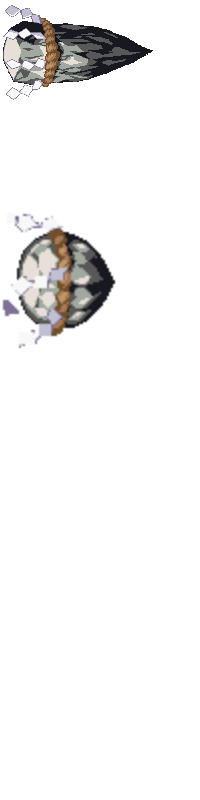
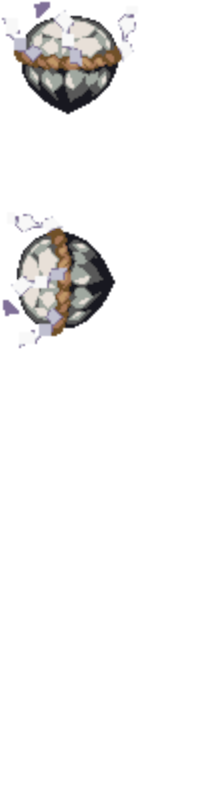
Keystone drop mostly complete

Changed region(s): [[0.0, 0.0, 0.75, 0.1562]]

diff --git a/components/TenshiController.js b/components/TenshiController.js
@@ -41,16 +41,6 @@ class TenshiController extends BossController {
             // }
             this.facePlayer();
             this.attack(15);
-            // let roll = Math.floor(Math.random() * 2);
-            // this.facePlayer();
-            // this.attack(1);
-            // if (roll == this.boss.facing) { //JUMP FORWARD
-            //     this.yVelocity = -1000;
-            //     this.xVelocity = (1 - roll * 2) * 600;
-            // } else { //JUMP BACKWARDS
-            //     this.yVelocity = -700;
-            //     this.xVelocity = (1 - roll * 2) * 600;
-            // }
         }
         if (this.attackDuration > 0 || this.timer > 0) { //DURING STATE
             switch(this.boss.state) {
@@ -149,22 +139,19 @@ class TenshiController extends BossController {
                     if (!this.effectSpawn && ((this.attackDuration < 1.5 && this.attackDuration > 1)
                         || (this.attackDuration < 0.5))) {
                         for (let i = 0; i < 6; i++) {
-                            this.game.addEntity(new Projectile(this.boss.BB.midX - 115 + 250 * i, -154, 200, 200, 
-                                73, 17, 95, 95, 1000, -90, null, "Tenshi", 1, this.game));
-                            this.game.addEntity(new Projectile(this.boss.BB.midX - 115 - 250 * i, -154, 200, 200, 
-                                73, 17, 95, 95, 1000, -90, null, "Tenshi", 1, this.game));
+                            this.game.addEntity(new Keystone(this.boss.BB.midX - 22 - 48 - 125 + 250 * i, -90, this.game));
+                            this.game.addEntity(new Keystone(this.boss.BB.midX - 22 - 48 - 125 - 250 * i, -90, this.game));
                         }
                         this.effectSpawn = true;
                     }
                     if (this.effectSpawn && this.attackDuration < 1 && this.attackDuration > 0.5) {
                         for (let i = 0; i < 6; i++) {
-                            this.game.addEntity(new Projectile(this.boss.BB.midX - 115 - 125 + 250 * i, -154, 200, 200, 
-                                73, 17, 95, 95, 1000, -90, null, "Tenshi", 1, this.game));
-                            this.game.addEntity(new Projectile(this.boss.BB.midX - 115 - 125 - 250 * i, -154, 200, 200, 
-                                73, 17, 95, 95, 1000, -90, null, "Tenshi", 1, this.game));
+                            this.game.addEntity(new Keystone(this.boss.BB.midX - 22 - 48 + 250 * i, -90, this.game));
+                            this.game.addEntity(new Keystone(this.boss.BB.midX - 22 - 48 - 250 * i, -90, this.game));
                         }
                         this.effectSpawn = false;
                     }
+                    Keystone.setSfxPlayed(false);
                     break;
                 }
             }

diff --git a/Entities/Projectile.js b/Entities/Projectile.js
@@ -23,17 +23,19 @@ class Projectile {
         this.x += this.xVelocity * this.game.clockTick;
         this.y += this.yVelocity * this.game.clockTick;
         this.updateHitbox();
-        if (this.lifespan == null) {
-            if (this.x + this.width < 0 || this.x > 1280) {
-                this.removeFromWorld = true;
-            }
-            if (this.y > 1600 || this.y < -800) {
-                this.removeFromWorld = true;
-            }
-        } else {
+        this.behavior();
+        if (this.lifespan != null) {
             if (this.lifespan <= 0) {
                 this.removeFromWorld = true;
             } else this.lifespan -= this.game.clockTick;
+        }
+    };
+    behavior() {
+        if (this.x + this.width < 0 || this.x > 1280) {
+            this.removeFromWorld = true;
+        }
+        if (this.y > 1600 || this.y < -800) {
+            this.removeFromWorld = true;
         }
     };
 

diff --git a/Entities/Tenshi/Keystone.js b/Entities/Tenshi/Keystone.js
@@ -1,0 +1,25 @@
+class Keystone extends Projectile {
+    constructor(x, y, game) {
+        super(x, y, 200, 200, 22, 18, 95, 90, 0, 0, null, "Tenshi", 0, game);
+        Object.assign(this, {x,y,game});
+        this.gravity = 2000;
+        this.bottom = this.y + 18 + 90;
+        
+    };
+    static sfxPlayed = false;
+    static setSfxPlayed(bool) {
+        Keystone.sfxPlayed = bool;
+    }
+    behavior(){
+        this.yVelocity += this.gravity * this.game.clockTick;
+        if (this.y + 18 + 90 >= 700) {
+            console.log("Impact");
+            if (!Keystone.sfxPlayed) {
+                this.game.audioManager.playSound("Rock.wav");
+                Keystone.setSfxPlayed(true);
+            }
+            this.game.addEntity(new Effect(this.x, this.y, "Tenshi", 1, this.game));
+            this.removeFromWorld = true;
+        } 
+    };
+}

diff --git a/Entities/Ghost.js b/Entities/Ghost.js
@@ -30,8 +30,8 @@ class Ghost {
     };
     update() {
         this.calculateTrajectory();
-        if (Math.abs(this.xTrajectory) <= 0.01) this.xTrajectory = 0;
-        if (Math.abs(this.yTrajectory) <= 0.01) this.yTrajectory = 0;
+        if (Math.abs(this.getXTarget() - this.x) <= 1) this.xTrajectory = 0;
+        if (Math.abs(this.getXTarget() - this.y) <= 1) this.yTrajectory = 0;
         this.x += this.xTrajectory * this.speed * this.game.clockTick;
         this.y += this.yTrajectory * this.speed * this.game.clockTick;
     };

diff --git a/index.html b/index.html
@@ -29,6 +29,7 @@
     <script type="text/javascript" src="./Entities/Player.js"></script>
     <script type="text/javascript" src="./Entities/Meiling.js"></script>
     <script type="text/javascript" src="./Entities/Tenshi.js"></script>
+    <script type="text/javascript" src="./Entities/Tenshi/Keystone.js"></script>
     <script type="text/javascript" src="./main.js"></script>
 </head>
 <body>
